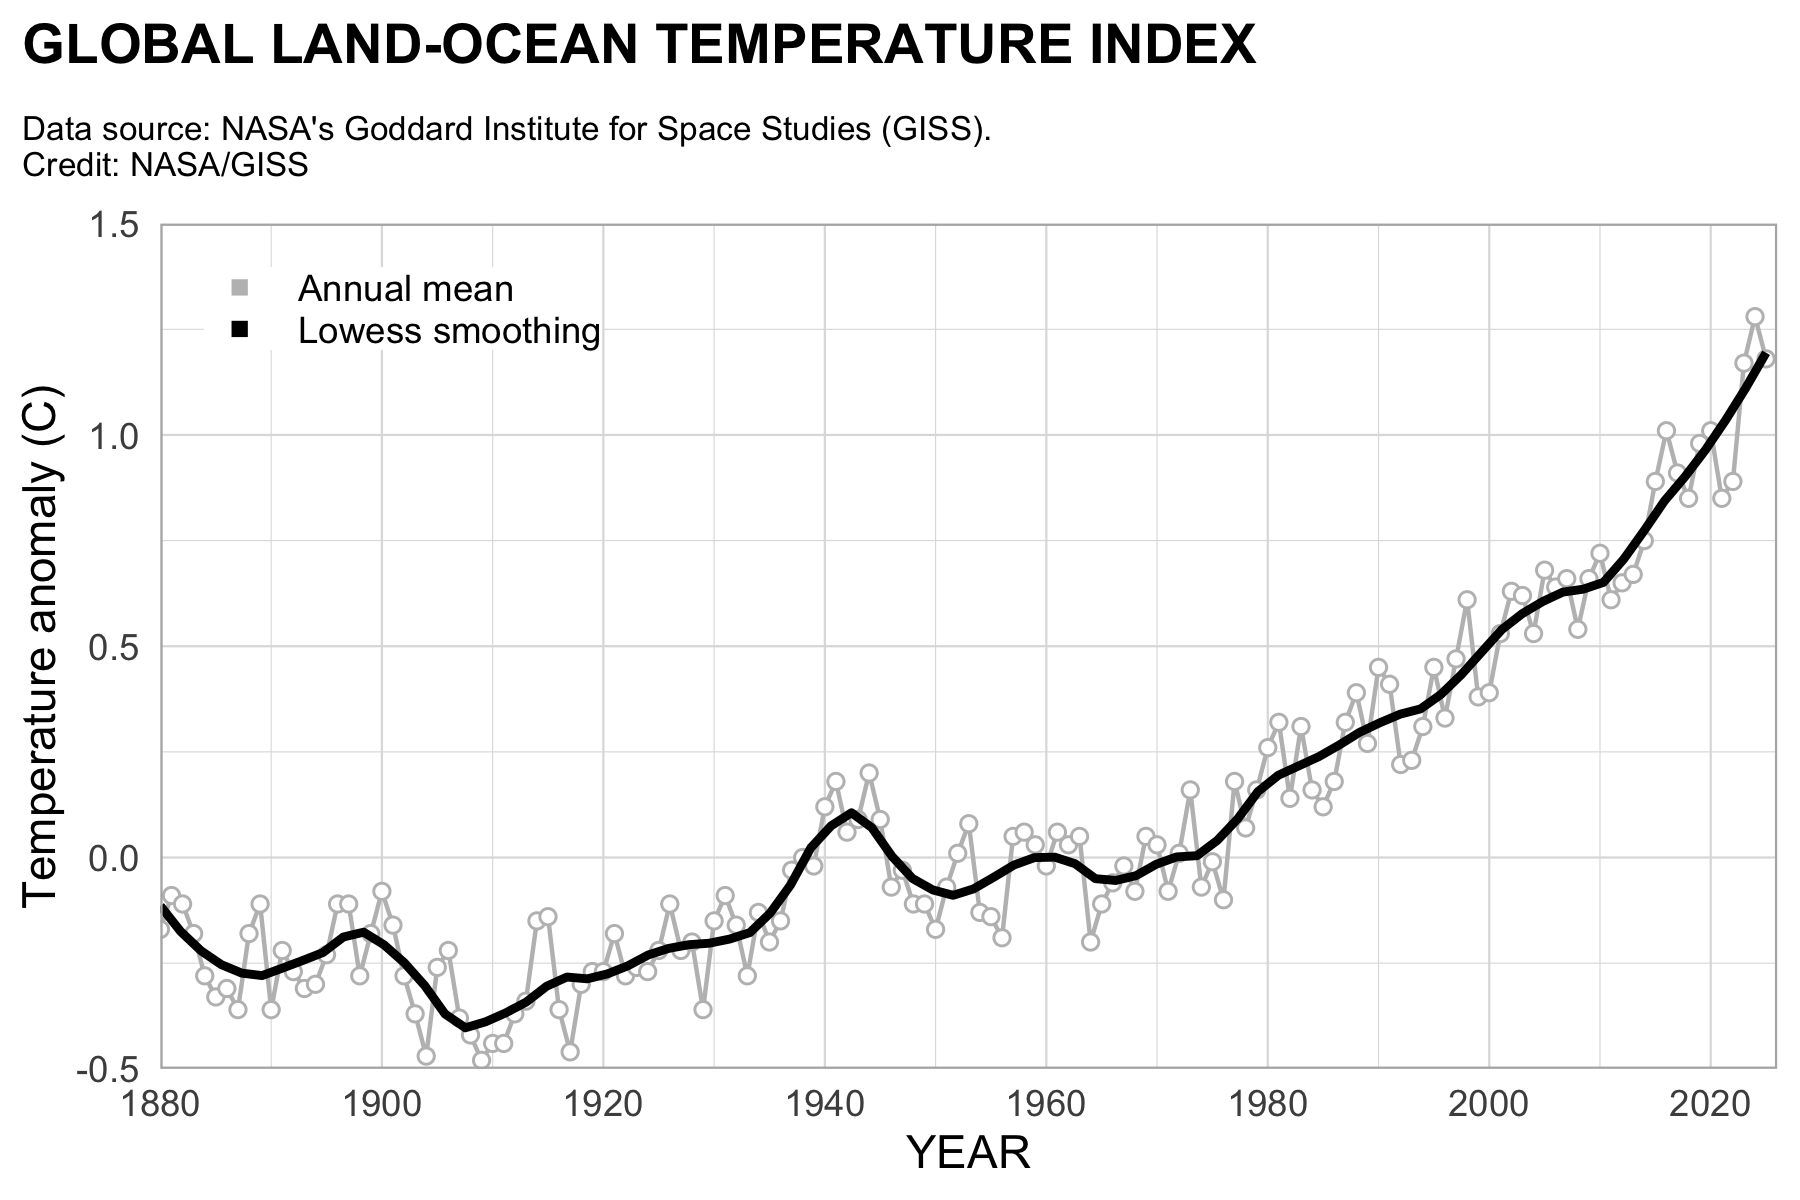
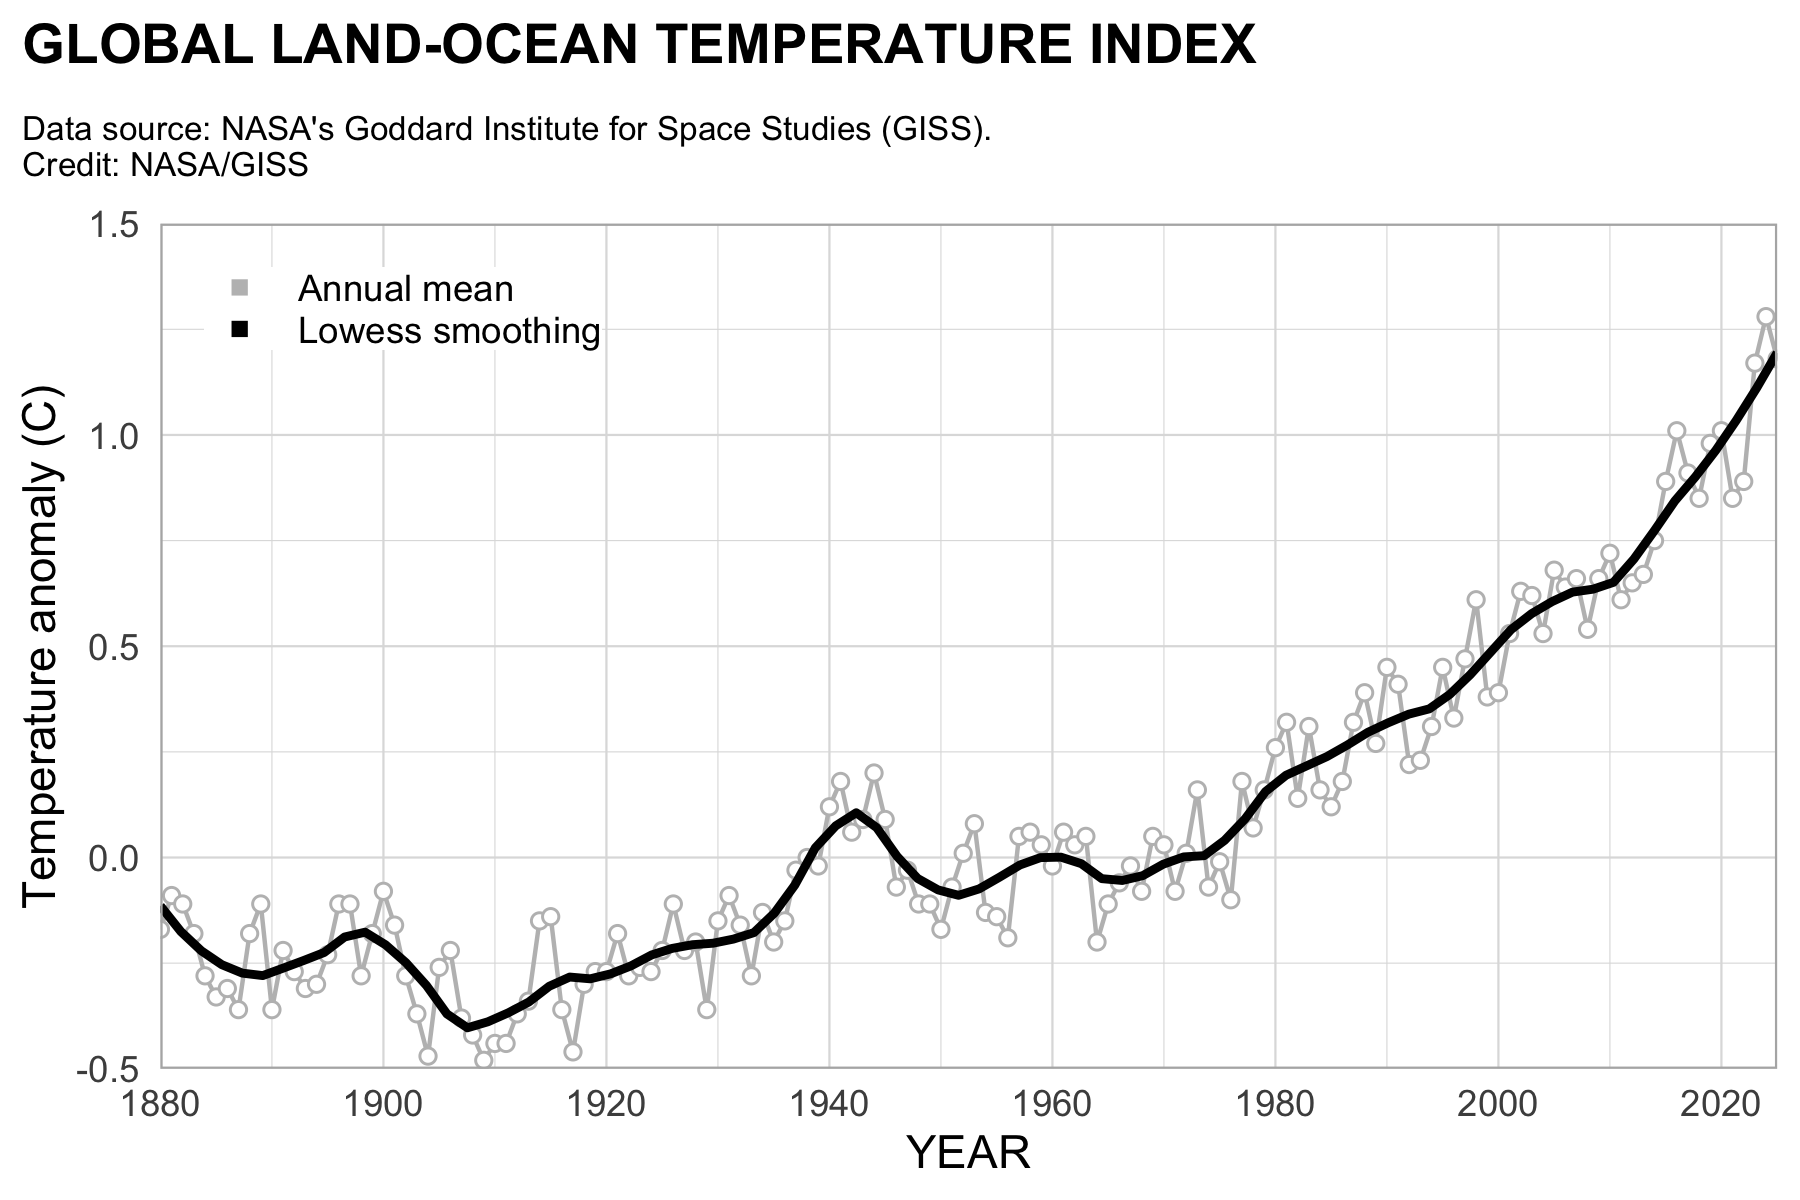
Update scripts, figures and README files

diff --git a/figures/README.md b/figures/README.md
@@ -1,3 +1,6 @@
 # chart examples
 Global Temperature Index
 URL: https://science.nasa.gov/earth/explore/earth-indicators/global-temperature/
+
+Temperature Bars
+URL: https://showyourstripes.info/b
